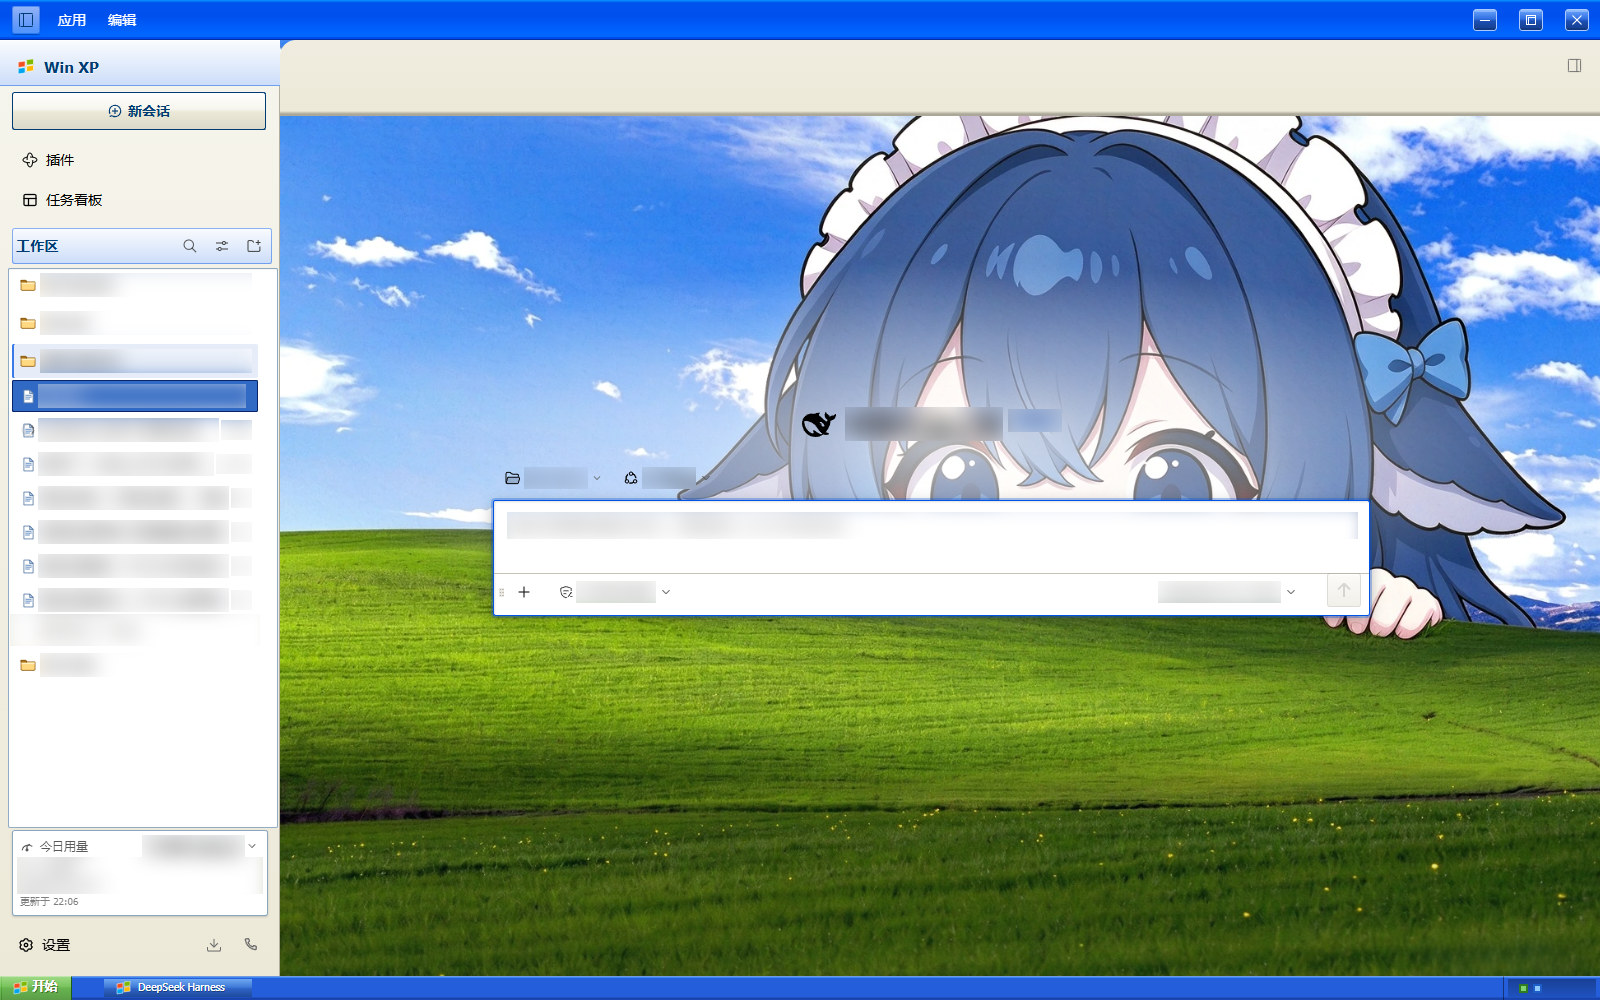
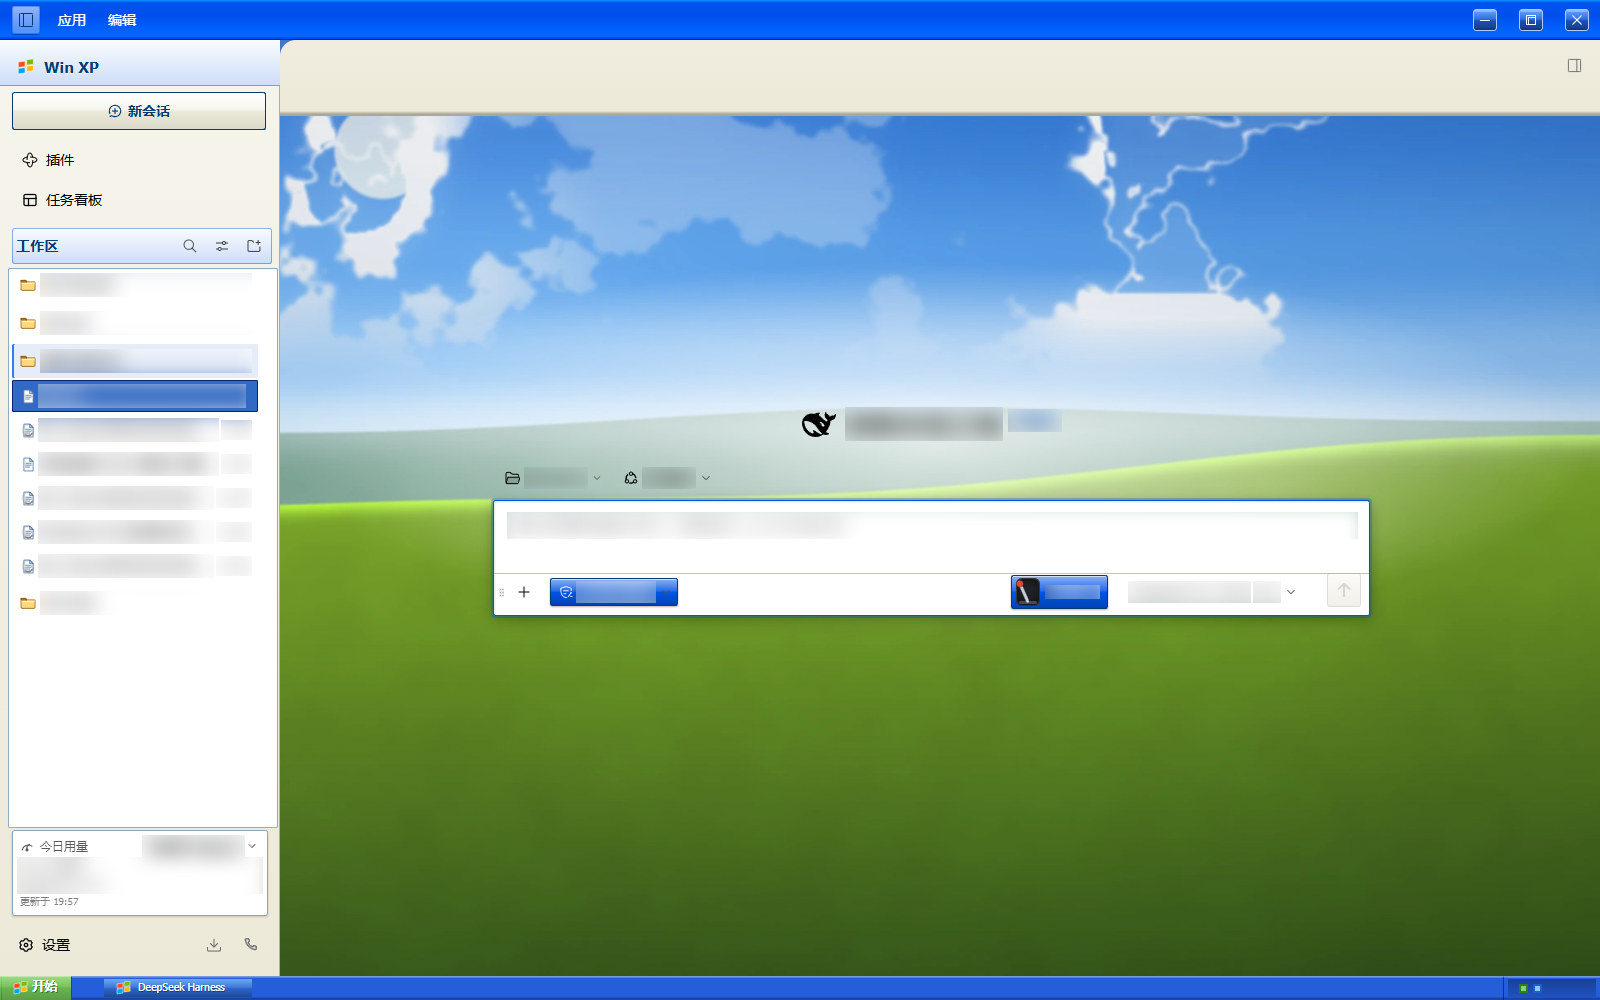
fix(skins): replace the windows-xp wallpapers and make the client area opaque
The review of #64 refused the wallpaper pair: both WebP frames carried an anime
character over the right half of the picture, and the submission described them
three different ways ("the author's own photographs" in both READMEs and in the
manifest attribution, "the user's Bliss pair" in the manifest description).

Replace both wallpapers with a day/night pair rendered by a script written for
this skin: the same composition (horizon, ridge, cloud field) in the two themes,
no photograph, no third-party material, and no figure or character in either
frame. Both READMEs, the manifest attribution and the manifest description now
say the same thing, and the wallpapers fall under the same CC BY-NC-SA 4.0 grant
as the rest of the skin.

Also from the same review:

- both READMEs now say 19 hand-authored SVGs (they said 17; assets/ holds 19 and
  the manifest already said 19);
- the conversation client area is opaque (#FFFFFF / #1C1C1C) instead of a 0.70 /
  0.78 veil, so "every panel is an opaque XP window" is true as written;
- the manifest description's other stale claims: the taskbar is 24 px (not 26),
  the task button's caption is a fixed-size SVG rather than a live label, the
  sidebar's top strip is a task pane header band rather than a Luna title bar,
  and the photo-background tag became painted-background.

All four evidence images were re-captured from this build.

diff --git a/skins/windows-xp/patches.css b/skins/windows-xp/patches.css
@@ -862,11 +862,13 @@ a:hover {
   pointer-events: none;
 }
 
-/* C3 · 会话正文：一台压在桌面上的窗口客户区。半透明，让壁纸透上来 ——
-   0.80 时壁纸几乎看不见（用户点名「背景皮肤没有」），收到 0.62/0.72 之后
-   正文仍有 6 以上对比度（见交接里的表）。 */
+/* C3 · 会话正文：一台压在桌面上的窗口客户区。
+   **是不透明的**（R11 改）。以前这里是 0.70 / 0.78 的纱，让壁纸从正文里透上来；
+   但 XP 的窗口面本来就不透明，README 那句「every panel is an opaque XP window」
+   和它自相矛盾（上游评审 PR #64 就是这么被指出的）。现在客户区回成纯白 / 近黑：
+   桌面只剩首屏那一整幅，进了会话就是一台铺满的 XP 窗口，跟真实 XP 一样。 */
 [data-conversation-content]:not([data-content-phase='hero']) {
-  background-color: #ffffffb3 !important;
+  background-color: #FFFFFF !important;
   box-shadow: inset 1px 0 0 #aca89980, inset -1px 0 0 #aca89980 !important;
 }
 
@@ -2088,11 +2090,13 @@ body[data-ds-dark-theme] [data-conversation-tabs] [role='tab'][aria-selected='tr
   pointer-events: none;
 }
 
-/* C3 · 会话正文：一台压在桌面上的窗口客户区。半透明，让壁纸透上来 ——
-   0.80 时壁纸几乎看不见（用户点名「背景皮肤没有」），收到 0.62/0.72 之后
-   正文仍有 6 以上对比度（见交接里的表）。 */
+/* C3 · 会话正文：一台压在桌面上的窗口客户区。
+   **是不透明的**（R11 改）。以前这里是 0.70 / 0.78 的纱，让壁纸从正文里透上来；
+   但 XP 的窗口面本来就不透明，README 那句「every panel is an opaque XP window」
+   和它自相矛盾（上游评审 PR #64 就是这么被指出的）。现在客户区回成纯白 / 近黑：
+   桌面只剩首屏那一整幅，进了会话就是一台铺满的 XP 窗口，跟真实 XP 一样。 */
 body[data-ds-dark-theme] [data-conversation-content]:not([data-content-phase='hero']) {
-  background-color: #1c1c1cc7 !important;
+  background-color: #1C1C1C !important;
   box-shadow: inset 1px 0 0 #3f3f3f80, inset -1px 0 0 #3f3f3f80 !important;
 }
 

diff --git a/skins/windows-xp/README.zh.md b/skins/windows-xp/README.zh.md
@@ -7,8 +7,8 @@
 任务窗格标题带，中栏顶上是一整条 76px 工具带，输入卡是一台带凹陷编辑框与工具条的小窗口，
 视口最底那 24px 画成任务栏。
 
-两套主题**不是**一套色的明暗孪生，而是 XP 的两个真实视觉样式，各自锚定在作者自己拍的一张
-照片上：
+两套主题**不是**一套色的明暗孪生，而是 XP 的两个真实视觉样式，各自锚定在这套皮自带的一张
+底图上（两张都是为本皮肤画的，出处见「许可与出处」）：
 
 | | 浅色 · Luna Blue | 暗色 · Royale Noir |
 | --- | --- | --- |
@@ -24,12 +24,13 @@
 ## 它是什么
 
 - **纯素材**：`skin.json`（v2 清单）+ `skin.css`（`--dsw-alias-*` 全量 token 重映射）
-  + `patches.css`（L3 自由选择器）+ 17 枚手写 SVG 与两张壁纸。没有 package.json、
+  + `patches.css`（L3 自由选择器）+ 19 枚手写 SVG 与两张壁纸。没有 package.json、
   没有构建步骤、**没有 hooks** —— 这套皮里没有一行会执行的代码。
-- **照片背景**（`backgroundMedia.type = "image"`，每个主题一张 WebP），`scrim` 只压
+- **绘画背景**（`backgroundMedia.type = "image"`，每个主题一张 WebP），`scrim` 只压
   画面的两头，中间那座山整片让出来。
 - **两套主题都是正经的**：浅色与暗色各有自己的色板、壁纸与机壳渐变。
-- 地面全透（`glassBase: 0`）：**壁纸就是桌面**，面板是压在上面的不透明 XP 窗口。
+- 地面全透（`glassBase: 0`）：**壁纸就是桌面**，压在上面的每一块面板都是不透明的 XP 窗口
+  —— 会话正文的客户区也一样（平底 `#FFFFFF` / `#1C1C1C`，不是半透明的纱）。
 
 ## 还原了哪些 XP 的东西
 
@@ -59,7 +60,7 @@
 | 任务栏 | 视口最底 24px | frame 用 `padding-bottom` 让位；条子本身是 `::after` 上叠的 14 层背景：开始键、任务按钮与托盘的十二层、以及条子底色。任务按钮里是「四色旗 → 窗口名 → 蓝键」，次序不能反 |
 | 窗口边框 | 拖列时的分隔条 | 悬停亮起一条 3px Luna 蓝（XP 里拖窗口就是抓边框） |
 
-三个氛围层（`pane` / `sidebar` / `hero`）**全是 `none`**：画面就是那张照片，唯一的
+三个氛围层（`pane` / `sidebar` / `hero`）**全是 `none`**：画面就是那张底图，唯一的
 压暗来自声明的 `scrim`。
 
 ## 真壳实测（1296x828，桌面端条件 = `html[data-windows-titlebar]` **且**
@@ -117,12 +118,12 @@
 
 ## 许可与出处
 
-这套皮的工程部分（`skin.css`、`patches.css` 及其全部 token 与几何约定）与 17 枚 SVG
-均为作者原创，以 **CC BY-NC-SA 4.0** 授权。
+这套皮的工程部分（`skin.css`、`patches.css` 及其全部 token 与几何约定）、19 枚 SVG 与
+两张壁纸均为作者原创，以 **CC BY-NC-SA 4.0** 授权。
 
-两张壁纸是**作者本人拍摄的照片** —— 白天那一张，以及夜里在同一位置拍下的夜景。它们属于
-作者自己的作品，不含任何第三方素材，**不在**上面那份 CC BY-NC-SA 4.0 的授权范围内，
-仅随本皮肤一并提供。
+两张壁纸是**作者自己画的**：白天一张，以及同一构图的夜景 —— 都由作者为本皮肤写的脚本
+程序化渲染而成。里面没有照片、没有扫描或下载来的贴图、没有第三方素材，**幅面里也没有
+任何人物、角色或生物**：整张画就是天空、云与山丘。
 
 本皮肤是非官方、非商业的致敬作品，与 Microsoft 无隶属、无背书、无授权关系；
 「Windows XP」以及 Luna / Royale 视觉样式仅为描述性引用，皮肤中没有再分发任何

diff --git a/skins/windows-xp/README.md b/skins/windows-xp/README.md
@@ -10,7 +10,8 @@ the composer is a small XP window with an inset edit box and a toolbar, and the 
 24 px of the viewport is drawn as the taskbar.
 
 The two themes are **not** a light/dark twin of one palette. They are the two real
-Windows XP visual styles, and each is anchored to one of the author's own photographs:
+Windows XP visual styles, and each is anchored to one of the skin's own wallpapers (both
+drawn for this skin — see [Licence and provenance](#licence-and-provenance)):
 
 | | light · Luna Blue | dark · Royale Noir |
 | --- | --- | --- |
@@ -26,16 +27,17 @@ There are no constants shared between the two groups.
 ## What it is
 
 - **Pure assets**: `skin.json` (v2 manifest) + `skin.css` (full `--dsw-alias-*` token
-  remap) + `patches.css` (L3 free selectors) + 17 hand-authored SVGs and the two
+  remap) + `patches.css` (L3 free selectors) + 19 hand-authored SVGs and the two
   wallpapers. No package.json, no build step, **no hooks** — nothing in this skin
   executes.
-- **A photographic background** (`backgroundMedia.type = "image"`, one WebP per theme)
+- **A painted background** (`backgroundMedia.type = "image"`, one WebP per theme)
   with a `scrim` that only darkens the two ends, so the middle of the picture — the
   hill the composition is about — is left alone.
 - **Both themes are first-class**: light and dark each get their own palette, their own
   wallpaper and their own chrome gradient.
 - The ground is fully transparent (`glassBase: 0`): the wallpaper **is** the desktop, and
-  every panel is an opaque XP window on top of it.
+  every panel is an opaque XP window on top of it — the conversation client area included,
+  which is flat `#FFFFFF` / `#1C1C1C` rather than a translucent scrim.
 
 ## What it recreates
 
@@ -136,13 +138,14 @@ center. Both themes are declared, so the system theme switch works without a rel
 ## Licence and provenance
 
 The engineering of this skin (`skin.css`, `patches.css` and their entire token and
-geometry system) and the 17 SVGs are the author's own work, released under
-**CC BY-NC-SA 4.0**.
+geometry system), the 19 SVGs and the two wallpapers are the author's own work, released
+under **CC BY-NC-SA 4.0**.
 
-The two wallpapers are **the author's own photographs** — the day frame, and the night
-frame shot from the same position after dark. They are the author's own artwork, they
-carry no third-party material, and they are **not** covered by the CC BY-NC-SA 4.0 grant
-above; they are included here with the author's permission for this skin only.
+The two wallpapers are **the author's own drawings**: a day frame, and the same
+composition after dark, rendered procedurally by a script the author wrote for this skin.
+They contain no photograph, no scanned or downloaded texture and no third-party material,
+and **no figure, character or living being of any kind appears in either frame** — the
+whole picture is sky, clouds and hills.
 
 This skin is an unofficial, non-commercial homage. It is not affiliated with, endorsed
 by, or licensed by Microsoft; "Windows XP" and the Luna and Royale visual styles are
